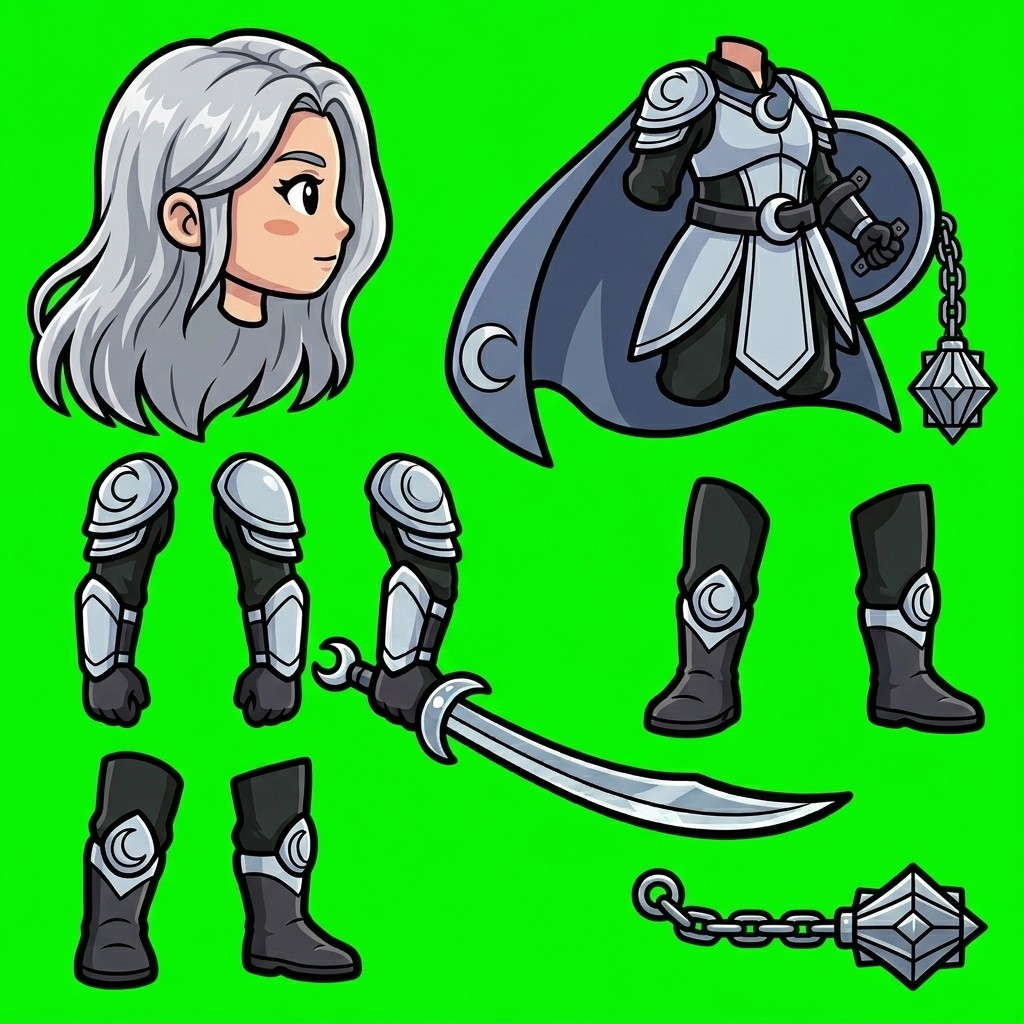
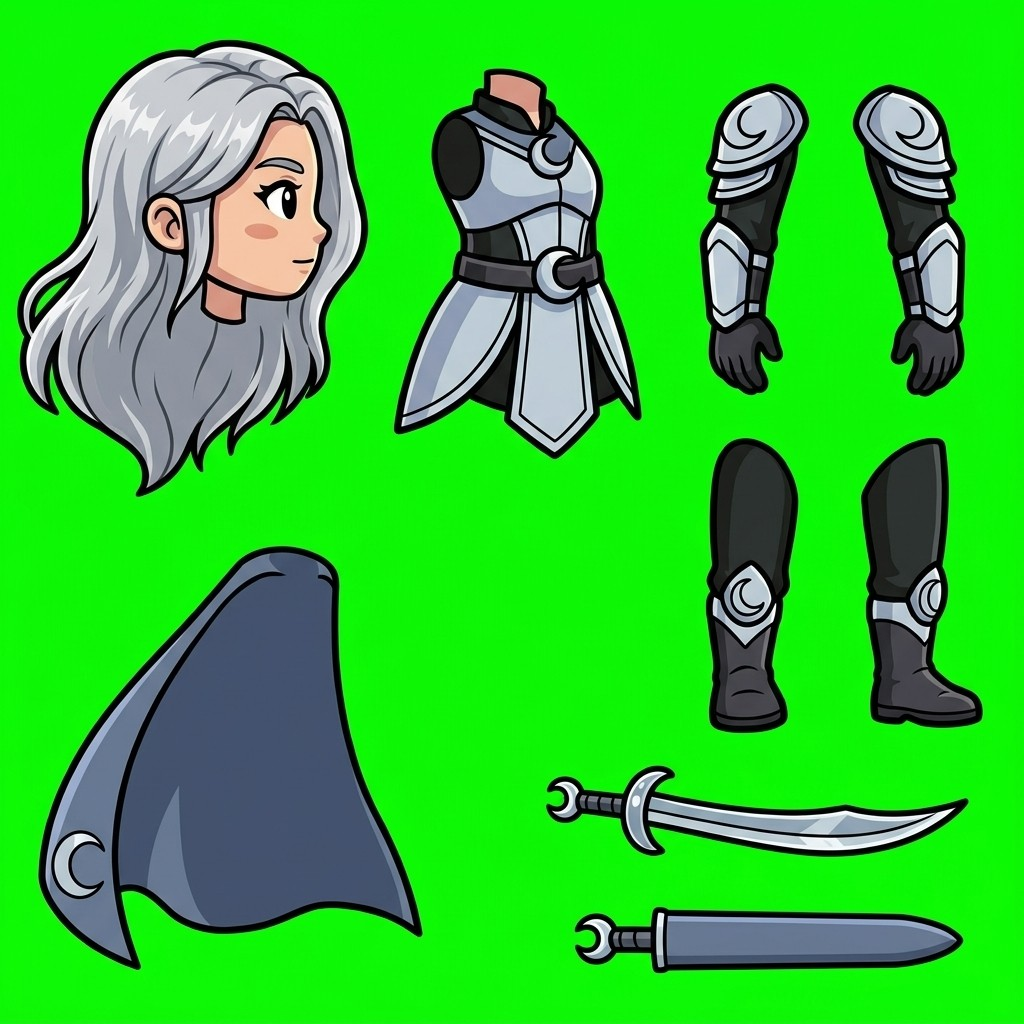
Mond-Klinge aus Teilen (Stufe 2): Haus des Mondes komplett
Claude-Session: https://claude.ai/code/session_01RzZcqm1xubsUvXCx1dwLtS

diff --git a/overlay/rigs.js b/overlay/rigs.js
@@ -7,6 +7,20 @@
 //   haengt: zeigt immer nach unten und pendelt (Kette) · senkrecht: bleibt aufrecht (Stab) · s: Größe
 // Reihenfolge der Teile = Zeichenreihenfolge (erstes ganz hinten).
 window.NWU_RIGS = {
+  // Haus des Mondes · Klinge (gebogener Säbel, blauer Umhang)
+  'haus1-a': {
+    hoehe: 403, huefte: [0, -145],
+    teile: [
+      { id: 'umhang', bild: 'umhang', anker: [140, 8], pos: [-8, -240], art: 'umhang', oben: true },
+      { id: 'armH', bild: 'armH', anker: [27, 15], pos: [-10, -232], art: 'armH', oben: true, dunkel: true },
+      { id: 'beinH', bild: 'beinH', anker: [23, 5], pos: [-8, -145], art: 'beinH', dunkel: true },
+      { id: 'beinV', bild: 'beinV', anker: [21, 5], pos: [6, -145], art: 'beinV' },
+      { id: 'rumpf', bild: 'rumpf', anker: [62, 120], pos: [0, -145], art: 'rumpf', oben: true },
+      { id: 'kopf', bild: 'kopf', anker: [112, 150], pos: [4, -253], art: 'kopf', oben: true },
+      { id: 'armV', bild: 'armV', anker: [29, 15], pos: [8, -232], art: 'armV', oben: true },
+      { id: 'waffeV', bild: 'waffeV', anker: [27, 23], an: 'armV', pos: [0, 138], dreh: 0.05 },
+    ],
+  },
   // Haus des Mondes · Schatten (Kapuze, zwei Dolche)
   'haus1-c': {
     hoehe: 381, huefte: [0, -150],

diff --git a/overlay/config.js b/overlay/config.js
@@ -40,7 +40,7 @@ window.NWU_CONFIG = {
   // Mit ?stufe1 in der Adresse laufen alle als Einzelbild.
   figurHoehe: 56,
   figuren: [
-    { haus: 'haus1', typ: 'a', bild: 'figuren/haus1-a.webp' },
+    { haus: 'haus1', typ: 'a', bild: 'figuren/haus1-a.webp', rig: 'haus1-a' },
     { haus: 'haus1', typ: 'b', bild: 'figuren/haus1-b.webp', rig: 'haus1-b' },
     { haus: 'haus1', typ: 'c', bild: 'figuren/haus1-c.webp', rig: 'haus1-c' },
     { haus: 'haus1', typ: 'd', bild: 'figuren/haus1-d.webp', rig: 'haus1-d' },

diff --git a/README.md b/README.md
@@ -16,7 +16,7 @@ Der vollständige Plan steht in [`docs/PLAN.md`](docs/PLAN.md).
 | **0** | Performance-Test | ✅ Prototyp fertig, **Messung auf deinem PC offen** |
 | **1** | Fundament (Datenbank, Chat-Bestätigung, Anwesenheit, Punkte) | 🟡 Worker `nwu-avatare` fertig und getestet (`worker/`), muss noch hochgeladen werden; Anwesenheit im Overlay |
 | **2** | Website | 🟡 Ritual als Film über die Karte (Quiz, Haus, Gestalt, Bindung per Code, Ton), Demo-Modus bis der Worker steht |
-| **3** | Figuren-Overlay | 🟡 Stufe 2 für Mond-Seher, -Schatten, -Hüter: Figuren aus Teilen mit Gelenken (laufen, sitzen, jubeln, winken); die übrigen laufen als Einzelbild (Stufe 1) |
+| **3** | Figuren-Overlay | 🟡 Haus des Mondes komplett in Stufe 2: alle 4 Figuren aus Teilen mit Gelenken (laufen, sitzen, jubeln, winken). Blut, Nebel, Flamme fehlen noch |
 | 4 | Level und Items | 🟡 `!levelup @Name [Anzahl]` nur für den Streamer: Effekt im Overlay, Level im Worker; Items fehlen noch |
 | 5 | Portal und Terrain | 🟡 aufrechtes Portal, Figuren laufen aufs Terrain; Kämpfe und Terrain-Bilder fehlen noch |
 | ➕ | Meilensteinkarte | 🟡 vier Pfade (Twitch, YouTube, Kick, TikTok) zur Zitadelle, `reise.html` (Website) und `reise.html?szene=1` (OBS), Essenz pro Plattform im Worker; eigene Reise-Karte fehlt noch |
